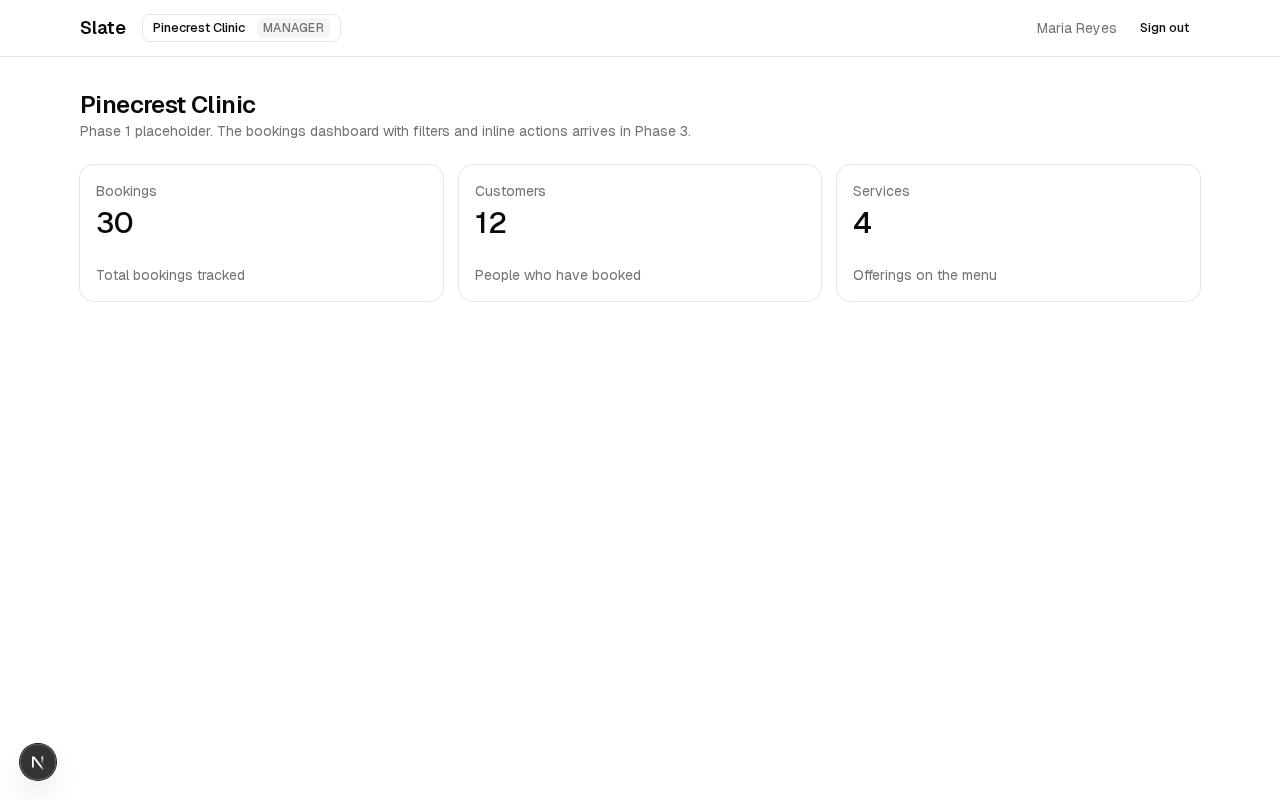
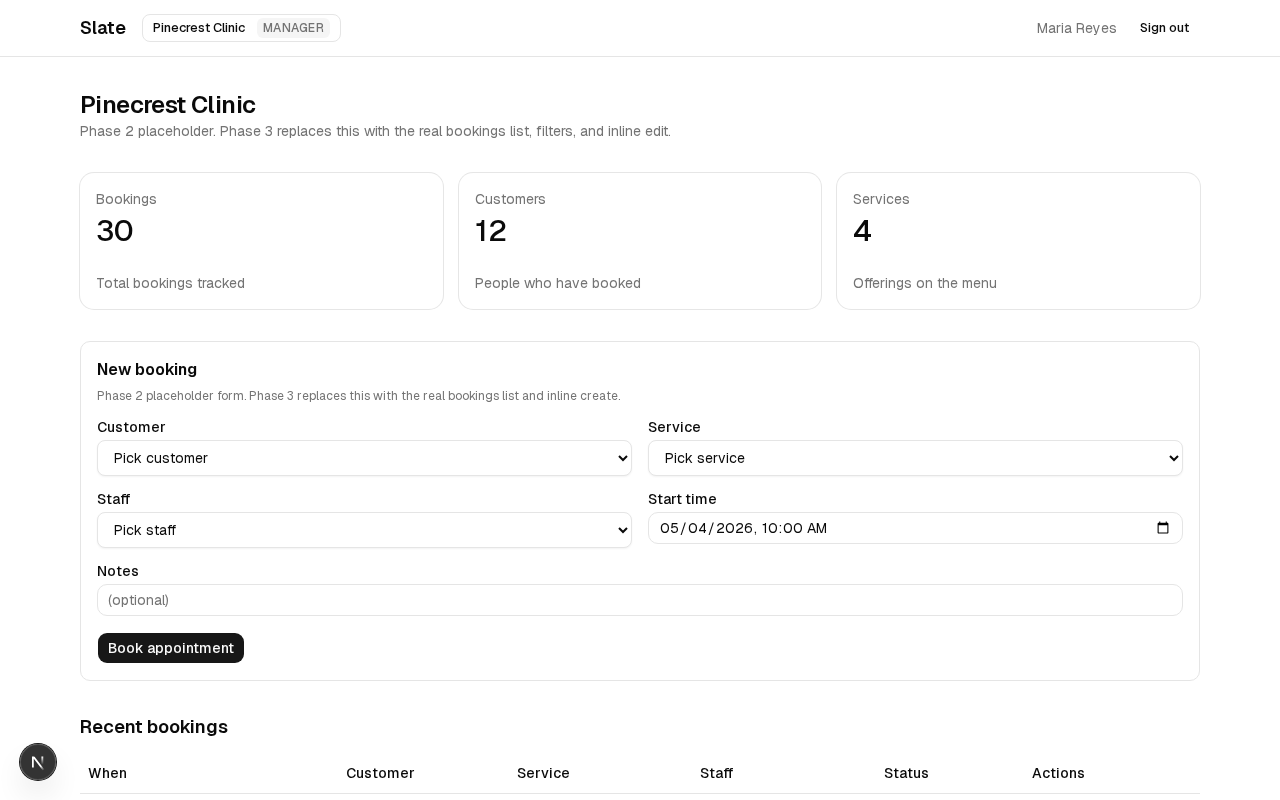
Add Phase 2 smoke and seed step in both phase scripts
phase2-smoke.mjs runs 6 checks: create booking, conflict rejection
on the same staff/slot, outside-availability rejection (8 AM before
the 9 AM rule), pending->confirmed status transition, cross-org
isolation when switching to Pinecrest, and a fresh dashboard
screenshot for the README.

Both phase scripts now run "pnpm db:seed" at startup unless
SKIP_SEED is set, so they are independently runnable in any order
without count drift.

diff --git a/README.md b/README.md
@@ -39,10 +39,10 @@ Seed data ships as Bella's Salon: haircut, color, blowout services; staff named 
 
 Screenshots land in `/screenshots/` as each phase ships. More appear here as the build progresses.
 
-### Phase 1
+### Phase 1 and 2
 
 ![Landing](screenshots/01-home.png)
 ![Sign in](screenshots/02-sign-in.png)
-![Dashboard placeholder](screenshots/03-dashboard.png)
+![Dashboard with bookings list and inline status actions](screenshots/03-dashboard.png)
 ![Org switcher](screenshots/04-org-switcher.png)
 ![Switched to Pinecrest Clinic](screenshots/05-dashboard-pinecrest.png)
